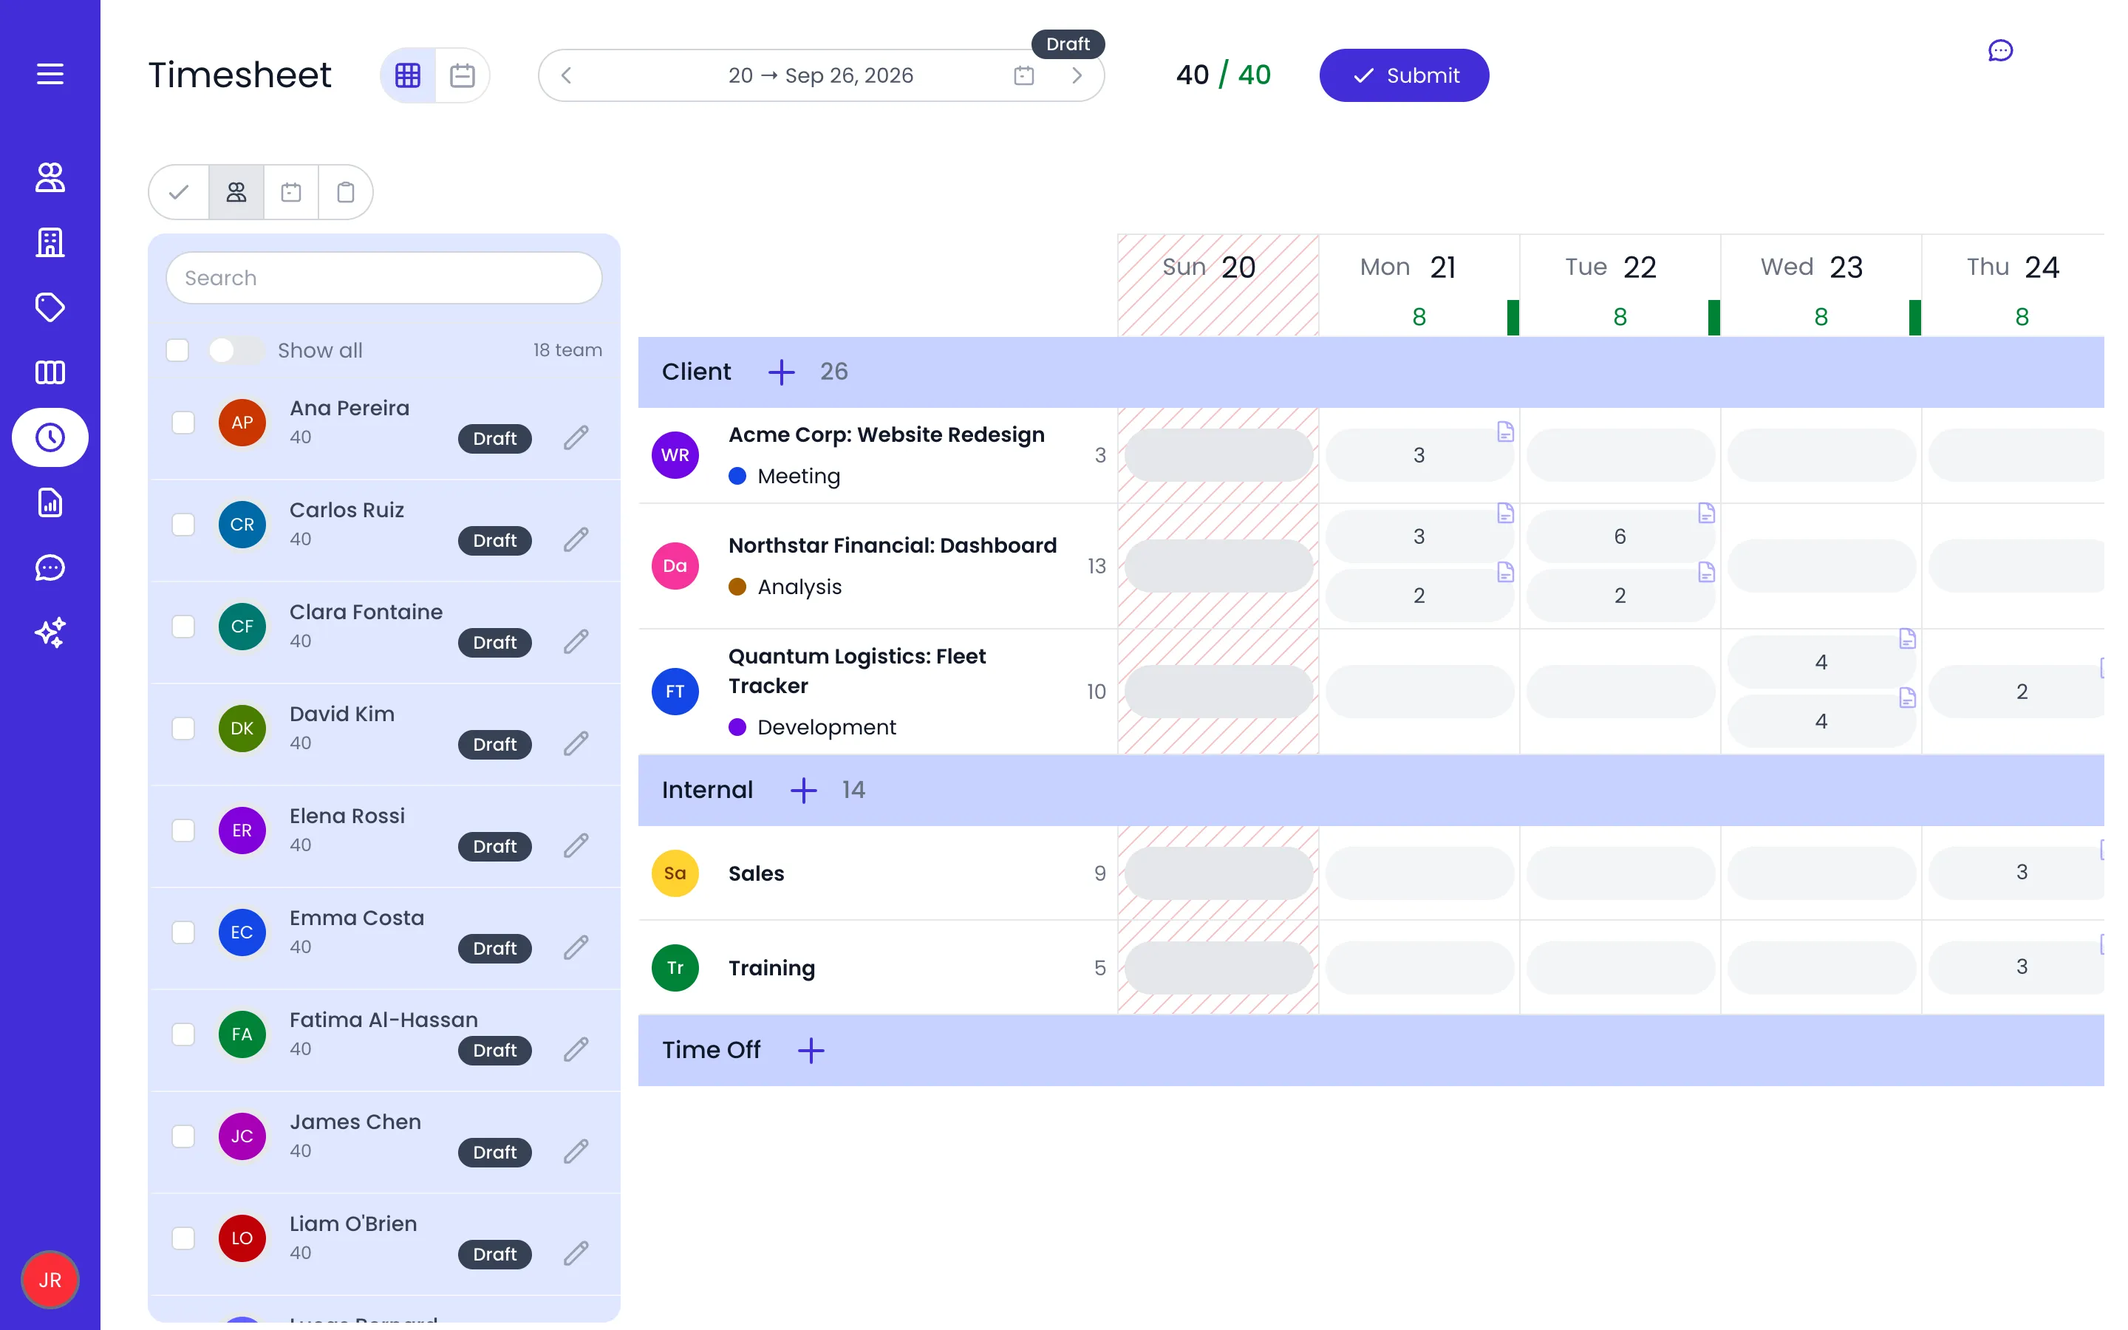
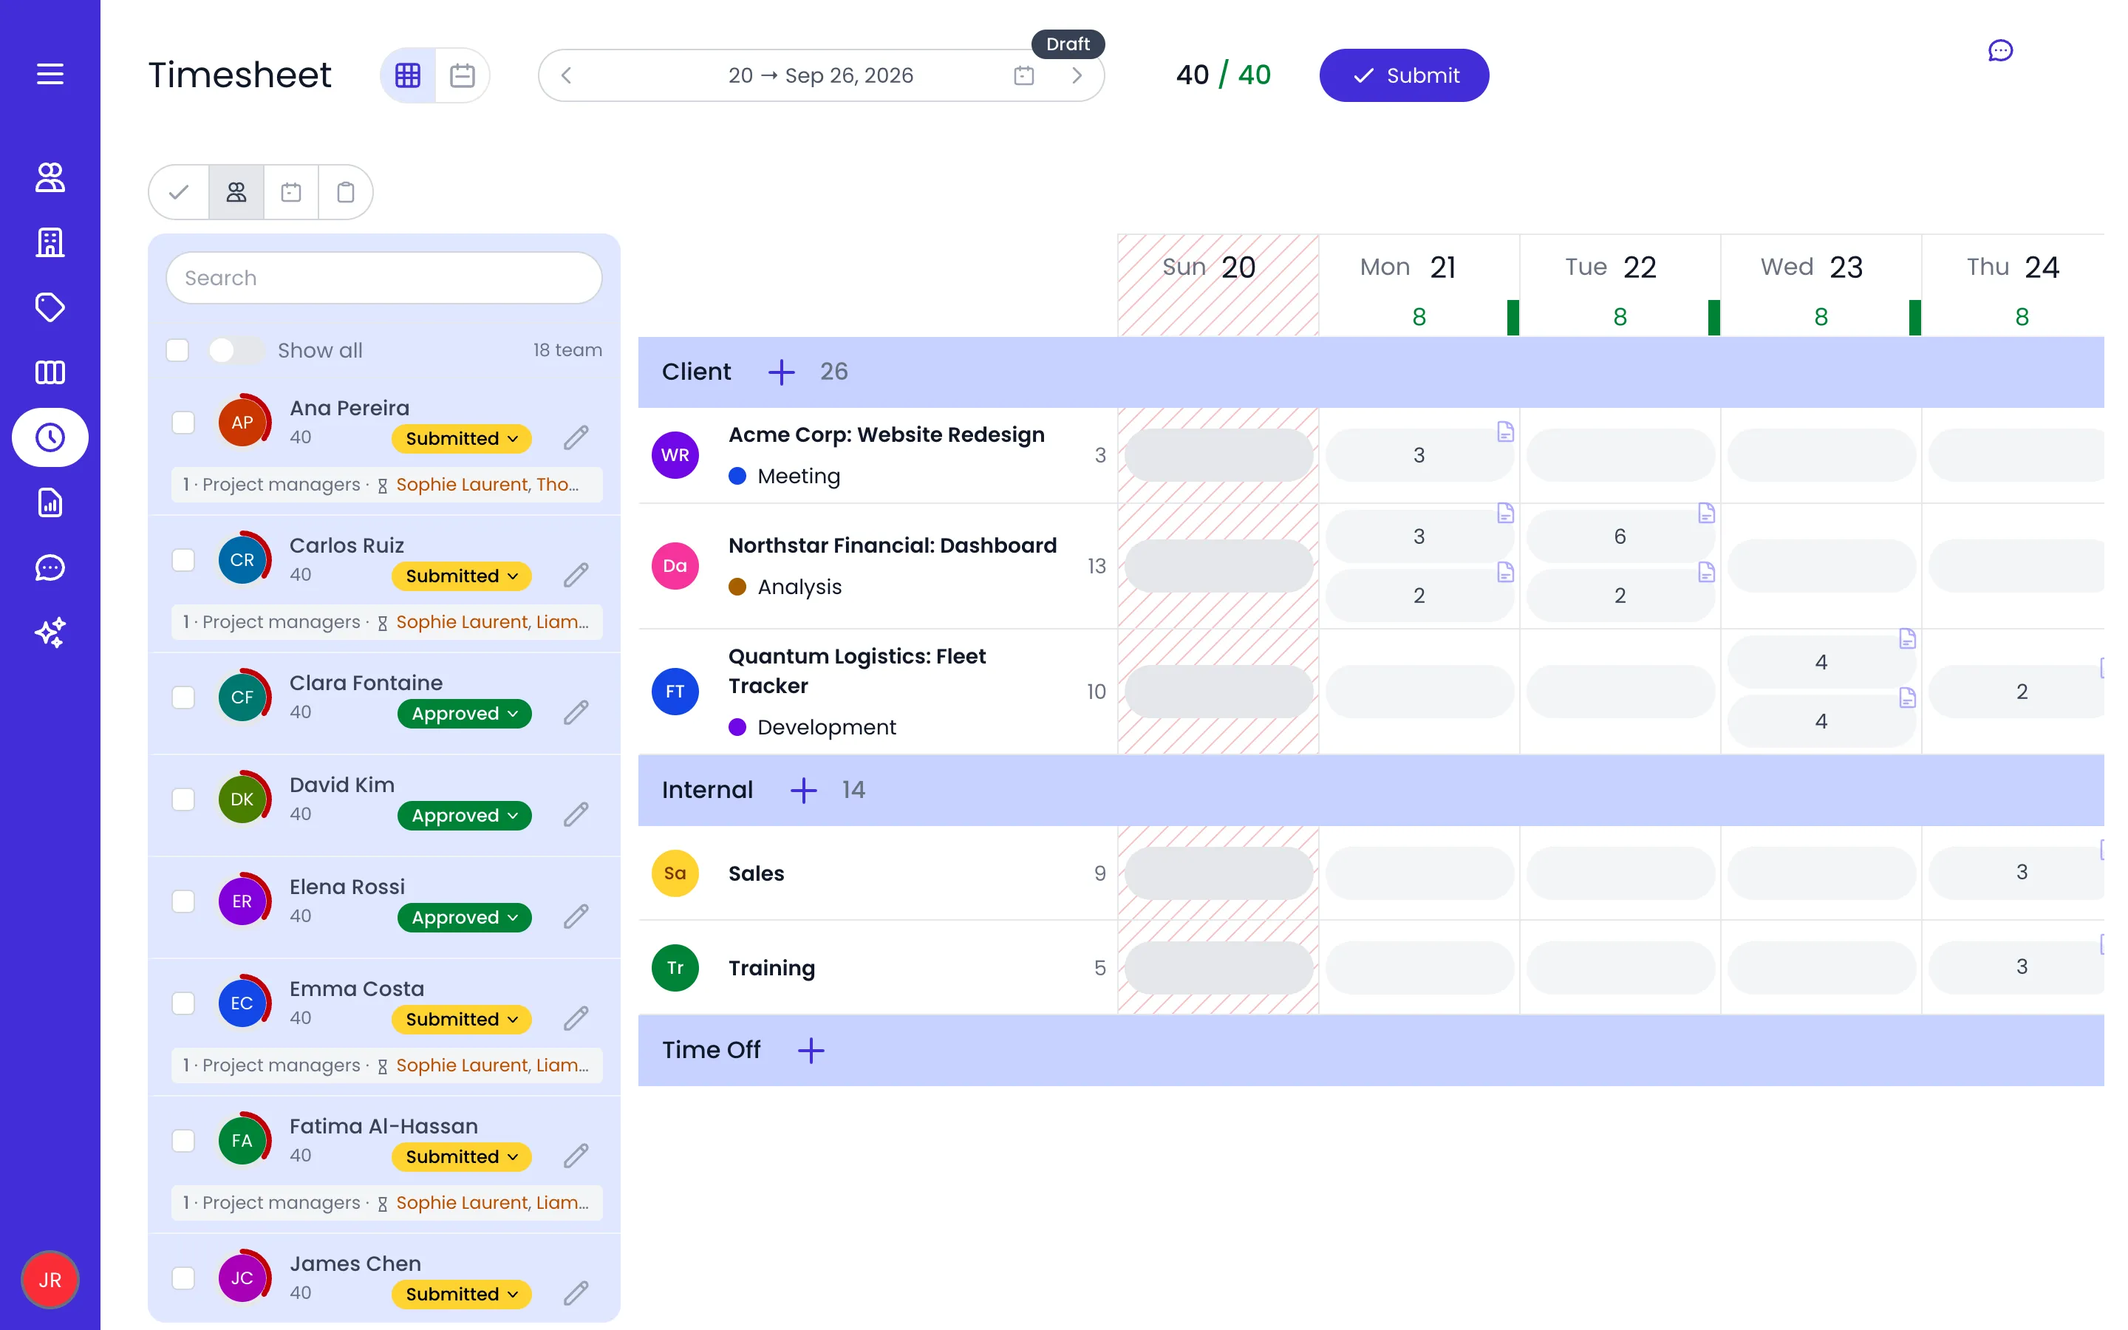
Approvals, reproducible scene data, and steadier replays
- Seed: approvals follow the app's periods (organisation week start,
  end at 23:59:59.999), network retries; approvals ran on 2026-09-29.
- Runner: prepare step for permanent capture-time data (approvals),
  fake success for screen-settings saves, one automatic retry for a
  changed or broken scene, stable-box helper.
- Scenes: week navigation checked on the date input and the grid,
  Tags panel opened by address, team pane waits for score rings,
  row menu waits for the settled button.
- Decisions recorded in the design doc, the seed README and the skills.

Changed region(s): [[0.0625, 0.3111, 0.2812, 0.8089], [0.0625, 0.84, 0.2812, 0.9956]]

diff --git a/.claude/skills/illustrate/SKILL.md b/.claude/skills/illustrate/SKILL.md
@@ -38,8 +38,9 @@ Every docs screenshot is produced by a **scene**: a small script that brings the
 - **Where:** one file per docs page, `.claude/skills/illustrate/scenes/<tab>/<page>.mjs` (for example `scenes/documentation/tags.mjs`), exporting `page` (the `.mdx` path) and `scenes`.
 - **Fields:** `id` (kebab-case, unique), `capturedAt` (YYYY-MM-DD, on the line right after `id`; the runner rewrites it), `datesMatter` (true when the screen shows dates or totals to date), `mode` (`auto`, or `guided` when the API cannot create the state), `setup(page, h)`, optional `teardown(page, h)`, and `shots`: a list of `{ file, frame }` with `file` relative to `help/images/` and `frame` one of `{ type: 'full' }`, `{ type: 'element', locate: (page) => locator, pad }`, `{ type: 'box', box: async (page, h) => rect, pad }`, `{ type: 'clip', x, y, width, height }`, or `{ type: 'lens', target: async (page, h) => locator, context?: rect }` for a control too small to read (the context at 2x, a round magnifier at twice the size from a 4x capture, an orange ring and line to the control). Optional scene fields: `mouse(page, h) → {x, y}` (where the mouse rests, to keep a hover-only control visible) and `fixture: { up(api, { date }), down(api, state) }` for data needed only during the capture (for example a running timer): `up` creates it through the documentation API and returns what `down` needs; `down` always runs; fixture scenes run alone after the others and need `BEEBOLE_QA_DOCS_SCREENSHOTS_APIKEY` in the environment.
 - **Helpers (`h`):** `goto(page, path)`, `settle(page)`, `listRow(page, name)`, `expandRow(page, name, childName)` (idempotent), `surfaceAround(page, text)` (box of the dialog or popup around a text), `byTooltip(page, scope, text)` (the button in `scope` whose hover tooltip contains `text`).
+- **Scene data, three kinds:** the seed (what `/seed-documentation` builds); a **fixture** `{ up, down }` for temporary data (a running timer: created just before, deleted right after, the scene runs alone); `prepare(api, { date })` for permanent data the capture adds and never removes (submitting or approving the week a scene shows). `prepare` runs on capture and preview, never on replay, and must be idempotent. Week bounds must match the app: first day of the organisation's week at 00:00 UTC, last day at 23:59:59.999. Fixture and prepare scenes need `BEEBOLE_QA_DOCS_SCREENSHOTS_APIKEY` (source `~/.config/beebole/.env`).
 - **What to shoot is decided by need, from the page itself:** read the page's sections and give each one a shot where seeing the screen helps the reader (a layout, a dialog, where to click, a state such as a running timer), and none where the text is enough. There is no quota. Small controls get a lens. The inventory lists needs found earlier; add what a page needs and it lacks. Framing, Intercom/Beta/toast hiding, mouse parking, DPR 2, `animations: 'disabled'` and `caret: 'hide'` are applied by the runner, not by scenes.
-- **Rules:** find elements by label, role, text or component tag, never by coordinates; make every opening step idempotent (the app remembers expanded trees and open panels); leave no trace: the runner answers every GraphQL mutation itself, so nothing a scene clicks reaches the server (screen-settings saves are dropped silently; any other mutation makes the scene `broken` with the mutation's name). Scenes still restore what they change in the page, in `teardown`, for the next steps of the same run; add any data a scene needs to `../seed-documentation/layer.mjs`, never by clicking in the app; unnamed controls go in `runner/missing-labels.md`.
+- **Rules:** find elements by label, role, text or component tag, never by coordinates; make every opening step idempotent (the app remembers expanded trees and open panels); wait for data the app loads over its WebSocket (most of it) with a condition on the page, such as `page.waitForFunction` counting the elements, because network idle does not see WebSocket traffic; leave no trace: the runner answers every GraphQL mutation itself, so nothing a scene clicks reaches the server (screen-settings saves get a fake success so the page keeps working; any other mutation gets an error and makes the scene `broken` with the mutation's name). Because saved settings never change, a scene must not rely on the app remembering a view: open panels, views and weeks explicitly (a panel through its address, such as `/persons/<id>/tags`; a week by checking the date-range input's value and the grid's first day after clicking Previous). Scenes still restore what they change in the page, in `teardown`, for the next steps of the same run; add any data a scene needs to `../seed-documentation/layer.mjs`, never by clicking in the app; unnamed controls go in `runner/missing-labels.md`.
 - **One screen, several shots:** take the full view and the panel crops from the same scene. An image used on several pages is captured once and linked from each (`where-used` lists them).
 
 Runner commands (from the repo root):
@@ -251,7 +252,7 @@ One batch of about 15 shots, sized to fit a session. Work on a branch `docs/scre
 2. **Check** each entry against the page's current text. Adjust or drop entries that no longer fit, and merge entries that show the same screen into one scene.
 3. **Data:** add what the scenes need to the seed layer; run `/seed-documentation topup` only if a scene is date-dependent.
 4. **Shoot** with the authoring loop above.
-5. **Place** each image in its page: `<Frame caption="...">` with descriptive alt text, per `.claude/context/mintlify-components.md`. Run `mintlify broken-links`.
+5. **Place** each image in its page: `<Frame caption="...">` with descriptive alt text, per `.claude/context/mintlify-components.md`. Full screens and lens shots are markdown images; partial shots (popover, menu, dialog, panel) are `<img src="..." alt="..." width="N" />` with N from `node .claude/skills/illustrate/runner/screenshots.mjs size <image>`, so they show at the app's real size. Run `mintlify broken-links`.
 6. **Record** in the inventory: mark each entry done with its scene id; list guided shots that could not be automated.
 7. **Commit as you go** (one commit per page) and open a PR whose body shows the new images. A session that stops mid-batch loses at most the scene in progress.
 

diff --git a/docs/superpowers/specs/2026-09-29-screenshot-machine-design.md b/docs/superpowers/specs/2026-09-29-screenshot-machine-design.md
@@ -33,6 +33,10 @@ All taken by Yves on 2026-09-29 unless marked otherwise.
 - The company is **AnyCompany** (obviously fictional). "Acme Corp" stays the example client, as the docs and `.claude/context/feedback.md` already use it.
 - Density follows need, not a number: a shot for each part of a page where seeing the screen helps the reader, none where the text is enough. (Replaced "one to three per page" on 2026-09-29, after the Timesheets test.)
 - Needs come from the page itself; the inventory is the to-do list, not the source of truth. (2026-09-29.)
+- Partial screenshots (popovers, menus, dialogs, panels) appear at their real on-screen width: `<img src alt width="N" />` inside the Frame, N from `screenshots.mjs size`. An exception to the repo's no-`<img>` rule, decided by Yves on 2026-09-29 (a Tailwind width class was tried first; the build does not generate arbitrary widths).
+- A lens also points at a tiny control inside a full-screen shot (for example the row timer button). Decided 2026-09-29.
+- Scene data comes in three kinds (decided 2026-09-29): the seed (the account as rebuilt), **fixtures** (temporary data created just before a capture and removed right after, such as a running timer; fixture scenes run alone), and **prepare** (permanent data a capture adds, never removed, such as approving the week it shows). Approvals are permanent and still reproducible: a submitted or approved week never changes again, a replay freezes the clock on the same week, and a later recapture uses a newer week.
+- First approvals ran on 2026-09-29 (Yves' go): 18 people's history submitted, older weeks approved, the last three weeks mixed; Jordan Reed's own weeks stay drafts for the timesheet scenes. From then on `full` refuses, and a reset means a new organisation.
 - Small controls get a **lens**: the screen around the control, with a round magnifier showing the control at twice the size and a thin orange ring and line pointing at it. Approved on the calendar-import prototype, 2026-09-29.
 - Batches of about 15 shots: high priority first, then medium, then low; most-visited pages first within each level (PostHog website project, 90-day views).
 - A screen shown on several pages is captured once and linked from each page. One scene can produce several shots from the same state.
@@ -73,7 +77,7 @@ Tokens are spent only on judgment: writing a new scene, repairing a broken one, 
 - **Scene file:** exports `page` (the `.mdx` path) and `scenes`, each with `id`, `capturedAt` (ISO date), `datesMatter` (boolean), `mode` (`auto` or `guided`), `setup(page, h)` (async, brings the app into the state), and `shots` (list of `{ file, frame }`, where `frame` is `{ type: 'full' }`, `{ type: 'element', locator, pad }`, `{ type: 'clip', x, y, width, height }` or `{ type: 'lens', target, context?, radius? }`). A scene with a lens shot is captured once at DPR 4; its other shots are scaled back to DPR 2, so every published image keeps the same scale.
 - **Shared helpers** (`runner/lib/`): sign in, hide Intercom and the Beta badge, park the mouse, wait for the page to settle, frame an element with a margin. The framing rules live there once.
 - **Framing rules:** DPR 2 always; full screens at 1440×900 (below 1440 the app hides its sidebar); dialogs and panels as element shots with an even margin; nothing hovered unless the page describes a hover state; no side panel behind a dialog.
-- **Scenes leave no trace, enforced by the runner.** The runner answers every GraphQL mutation itself, over the app's WebSocket and over HTTP, so a scene cannot change anything the app saves. Screen-settings saves (last route, open panels, grid or calendar view), which the app sends on every navigation, are dropped silently; any other mutation marks the scene `broken` with the mutation's name. This keeps parallel runs and later replays seeing the same account.
+- **Scenes leave no trace, enforced by the runner.** The runner answers every GraphQL mutation itself, over the app's WebSocket and over HTTP, so a scene cannot change anything the app saves. Screen-settings saves (last route, open panels, grid or calendar view), which the app sends on every navigation, get a fake success echoing the settings (an error made the app revert the panel it had just opened); any other mutation gets an error and marks the scene `broken` with the mutation's name. A scene that looks changed or broken is replayed once more and the second result stands, to absorb QA's occasional dropped connections. This keeps parallel runs and later replays seeing the same account.
 - **Noise control:** every capture uses Playwright's `animations: 'disabled'` and `caret: 'hide'`, waits for network idle, and hides transient toasts along with Intercom and the Beta badge.
 - **Finding elements:** by visible label, role, or the app's component tags; never by screen coordinates. Unnamed buttons are reached through the nearest stable anchor and listed in `runner/missing-labels.md`, which feeds the agent-ready work.
 - **Sign-in:** through the API in the browser page (`getAccounts` → `requestSignin` returns `debugPin` on QA → `signin`), then the browser storage state is saved in `~/.cache/beebole-docs-screenshots/` (outside git) and reused until it expires, so a PIN email is sent only when a new session is needed.

diff --git a/.todo/screenshot-needs.md b/.todo/screenshot-needs.md
@@ -97,7 +97,7 @@ _Landing hero already on disk (`index-beebole-documentation.webp`) — no new sc
 | timesheets/timer-running.webp | A row with the timer running and the floating on-screen timer | medium — done (scene `timesheets-timer`, fixture: a running entry created and removed around the capture, 2026-09-29) |
 | timesheets/copy-paste-cluster.webp | The top-left button cluster (copy, paste period, calendar, approval, team) with the Paste Add/Replace prompt | medium — copy button done as a lens `timesheets/copy-button.webp` (scene `timesheets-copy-button`); the Paste prompt is still open |
 | timesheets/calendar-import-pane.webp | The calendar import pane with Google/Microsoft events listed and a Tracked badge | medium — button done as a lens `timesheets/import-calendar-button.webp` (scene `timesheets-import-calendar-button`); the pane with events needs a connected Google or Microsoft calendar: guided |
-| timesheets/timesheet-score-ring.webp | A team pane avatar with the colored Timesheet score ring and its hover breakdown | low — blocked: scores need submitted and approved history (`/seed-documentation approve`, one-way) |
+| timesheets/timesheet-score-ring.webp | A team pane avatar with the colored Timesheet score ring and its hover breakdown | low — on hold: approvals exist since 2026-09-29, but every score is low because the history was submitted in one day (see `seed-documentation/README.md`) |
 | timesheets/calendar-view.webp | The calendar view with the favorites bar | done (scene `timesheets-calendar-view`, 2026-09-29; found from the page, not in the June inventory) |
 | timesheets/row-menu.webp | A row's ⋯ action menu (Pin to top, Edit, Remove row) | done (scene `timesheets-row-menu`, 2026-09-29; found from the page) |
 | timesheets/team-pane.webp | The Team pane with members and their reported time | done (scene `timesheets-team-pane`, 2026-09-29; found from the page) |

diff --git a/.claude/skills/seed-documentation/README.md b/.claude/skills/seed-documentation/README.md
@@ -28,6 +28,14 @@ Once approvals exist, `full` refuses. A reset then means:
 2. Create an API key for its admin, store it as `BEEBOLE_QA_DOCS_SCREENSHOTS_APIKEY`, update `ORG_ID` in `guards.mjs` and `../illustrate/runner/lib/session.mjs`.
 3. `seed.mjs full`, then recapture every scene (`screenshots.mjs capture all`).
 
+## Approvals
+
+- Run once on 2026-09-29 (`seed.mjs approve`): the 18 team members' weeks submitted (593), older weeks approved (567), the last three weeks mixed (pending ones show in the approvals panes). Jordan Reed's weeks are not touched, so the Timesheets scenes keep an editable draft week.
+- Periods must match the app exactly: weeks start on the organisation's first day (Sunday here) and end at 23:59:59.999 on the last day (`timesheetService.getTimesheetPeriod`). A range ending at the next midnight is a different period the app never shows; seed-demo had both mistakes (Monday start, midnight end), fixed here. The first run on 2026-09-29 used the wrong end and left 597 invisible submissions; they cannot be removed and do no harm.
+- Timesheet score rings are low (red) for everyone: the score rewards submitting on time, and the whole history was submitted on one day through the API, which cannot backdate. Do not use score-ring shots until the account has a real submission rhythm.
+- Scenes that need a week submitted or approved do it in their `prepare` step (permanent, never undone) with the same period bounds.
+
 ## History
 
-- 2026-09-29: created ("Illustrate 2026-09-29"), seeded with seed-demo, layer applied, renamed AnyCompany; rebuilt with `seed.mjs full` after the fixes.
+- 2026-09-29: created ("Illustrate 2026-09-29"), seeded with seed-demo, layer applied, renamed AnyCompany; rebuilt with `seed.mjs full` after the fixes; approvals run (see above). `full` refuses from now on.
+- The seed retries network failures (QA sometimes drops connections for a few seconds).

diff --git a/.claude/skills/release/SKILL.md b/.claude/skills/release/SKILL.md
@@ -38,7 +38,7 @@ Use today's date. If the branch already exists (second run the same day), suffix
 
 ### 3. Run the pipeline
 
-**Before step 1, start the screenshot replay in the background** (no tokens, a few minutes): `node .claude/skills/illustrate/runner/screenshots.mjs replay --json .todo/replay-report.json`. Step 6 reads its report.
+**Before step 1, start the screenshot replay in the background** (no tokens, a few minutes): `set -a && source ~/.config/beebole/.env && set +a && node .claude/skills/illustrate/runner/screenshots.mjs replay --json .todo/replay-report.json` (the key is needed by scenes with fixtures, such as the running timer). Step 6 reads its report.
 
 Invoke each skill via the Skill tool, in this order. **After each step, commit its changes** on the release branch with the message shown — one commit per step so the PR reads stage by stage. A step that changes nothing produces no commit; note it and continue.
 
